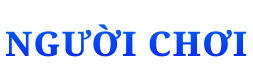
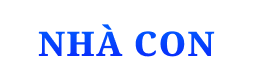
fix: update player text languages

Changed region(s): [[0.0, 0.3077, 0.996, 0.7436], [0.2767, 0.7179, 0.3043, 0.7436]]

diff --git a/src/assets/resources/i18n/vi.ts b/src/assets/resources/i18n/vi.ts
@@ -206,7 +206,7 @@ export const languages = {
         "glossary_banker": "Nhà Cái",
         "glossary_banker_pair": "Cái Đôi",
         "glossary_big": "Tài",
-        "glossary_player": "Người Chơi",
+        "glossary_player": "Nhà Con",
         "glossary_player_pair": "Con Đôi",
         "glossary_small": "Xỉu",
         "glossary_tie": "Hòa",
